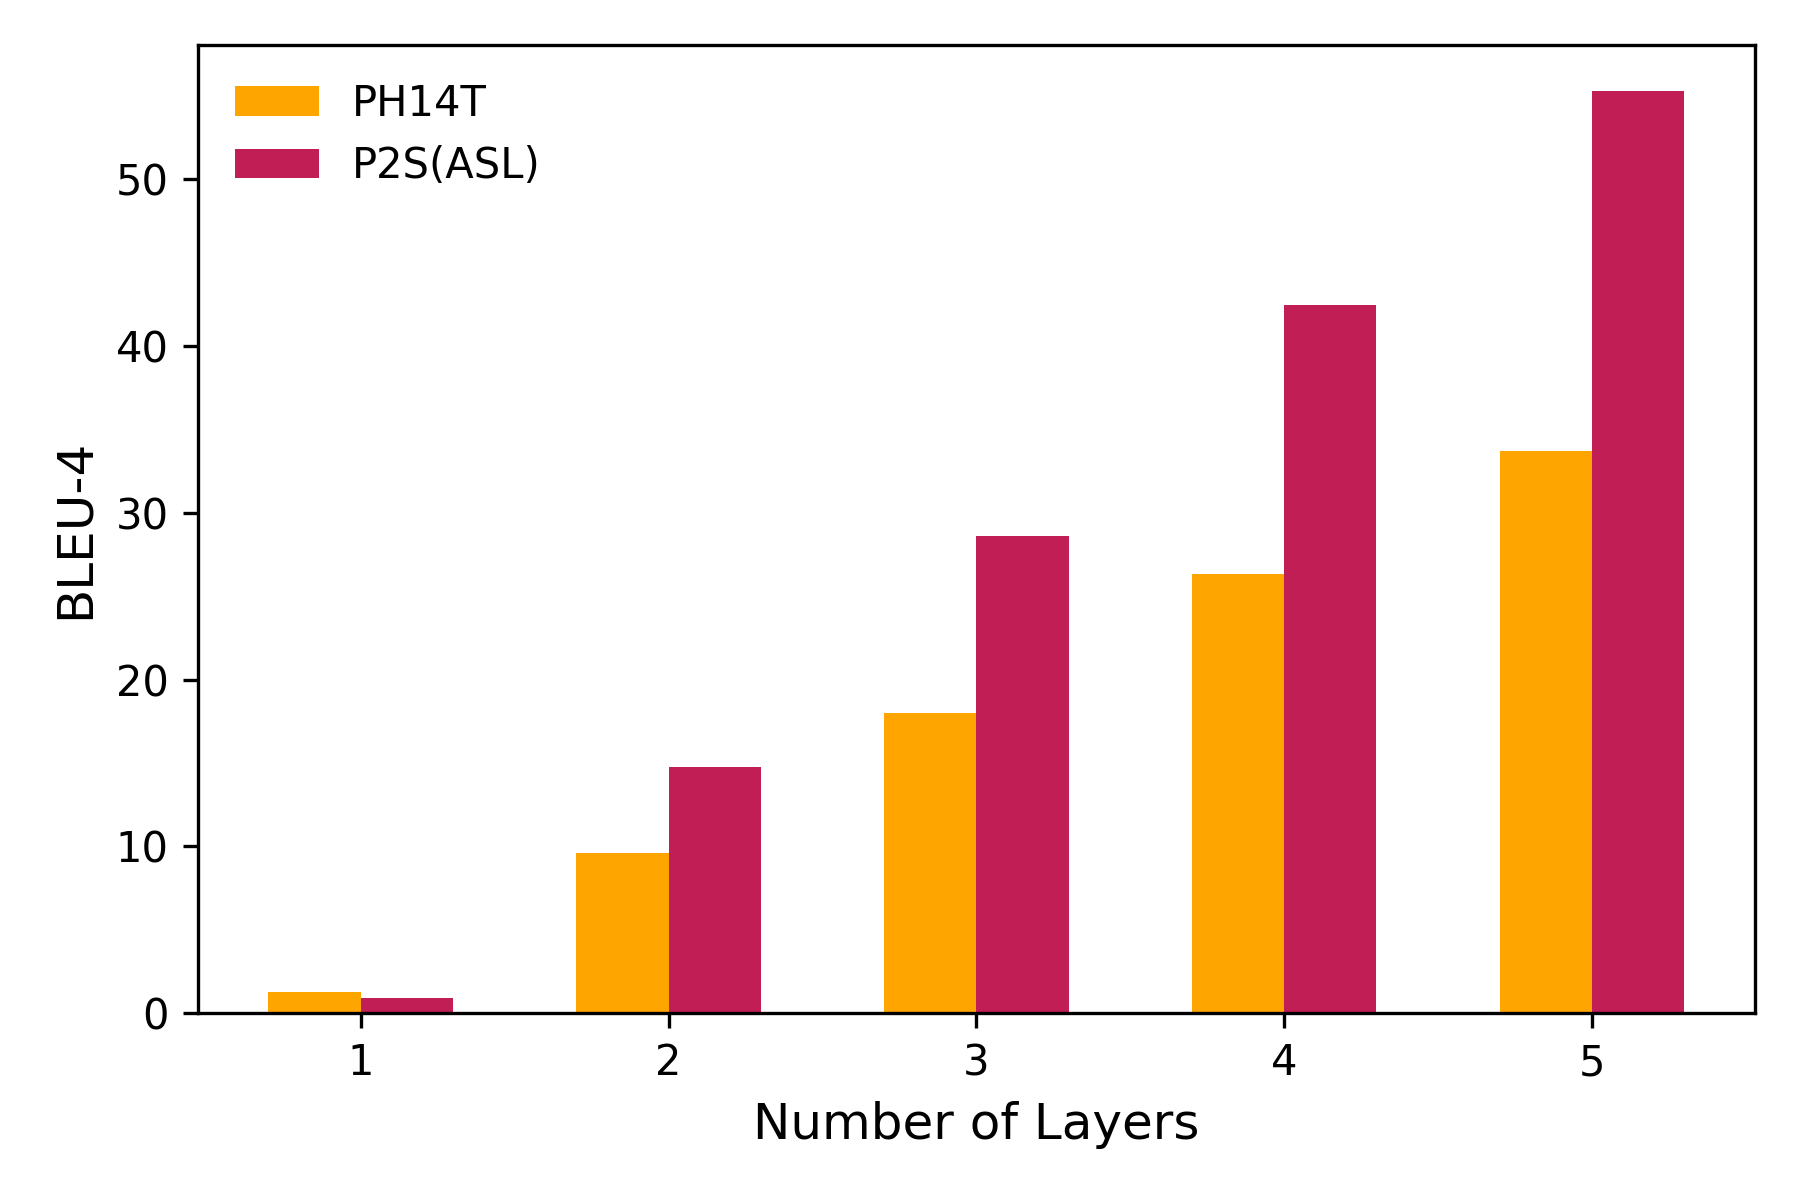
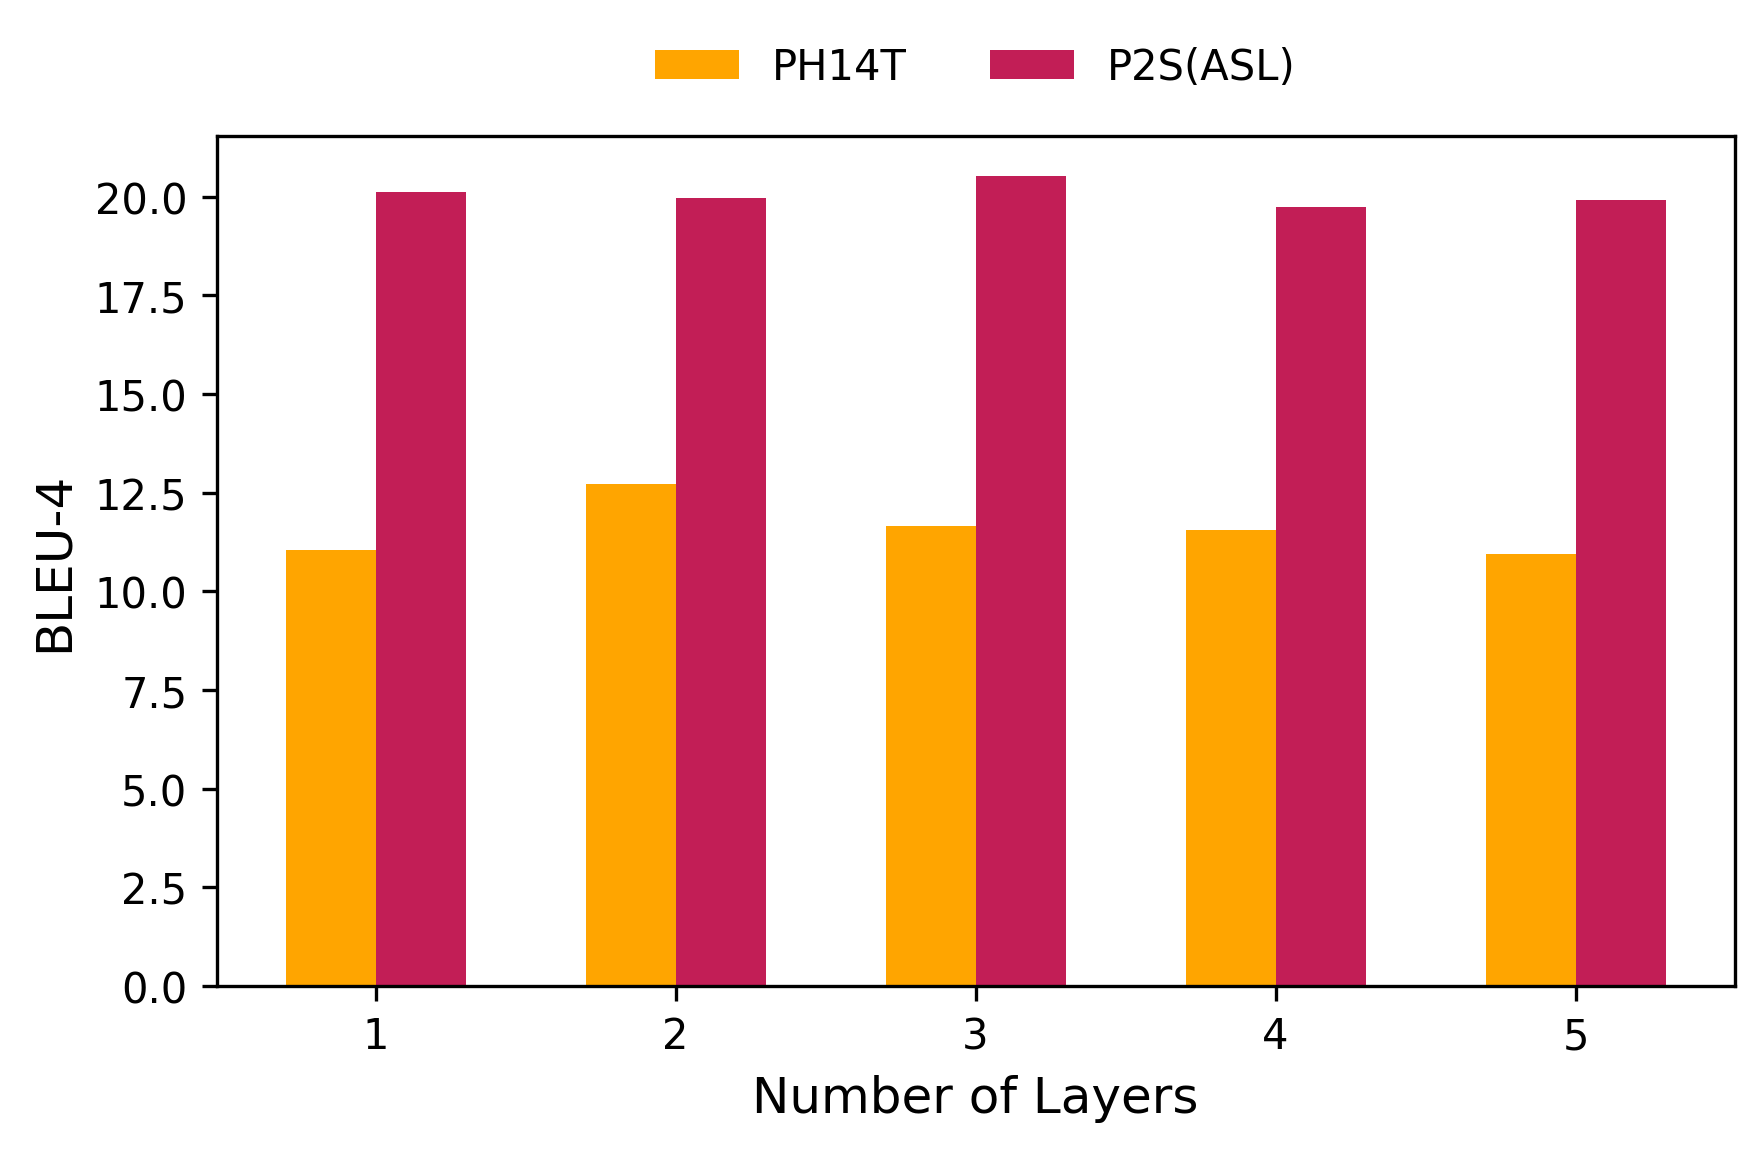
adjust log func

Changed region(s): [[0.0, 0.0312, 0.9977, 0.9688]]

diff --git a/plot/plot_nl.py b/plot/plot_nl.py
@@ -21,7 +21,7 @@ def plot_ll():
     y_how2sign = np.array([17.79, 20.35, 20.06, 20.8, 20.86, 21.46, 21.12, 21.18, 20.93, 21.23, 20.48])
 
     plt.plot(x, y_p14t, label='P14T')
-    plt.plot(x, y_how2sign, label='How2Sign')
+    plt.plot(x, y_how2sign, label='P2S(ASL)')
     plt.xlabel('lambda')
     plt.ylabel('BLEU-4')
     plt.legend()
@@ -34,11 +34,11 @@ def plot_ll():
     plt.close()
 
 
-def plot_nl():
+def plot_nl_pre():
     # 数据
     x = np.array([1, 2, 3, 4, 5])
-    y_p14t = np.array([1.26,9.61,17.97,26.32,33.68])
-    y_how2sign = np.array([0.89,14.73,28.58,42.43,55.28])
+    y_p14t = np.array([11.05, 12.73, 11.67, 11.56, 10.94])
+    y_how2sign = np.array([20.11, 19.97, 20.52, 19.74, 19.92])
 
     width = 0.3  # 柱状图宽度
 
@@ -63,6 +63,41 @@ def plot_nl():
     # 保存图像
     save_path = os.path.join(output_dir, "plot_nl.png")
     plt.savefig(save_path, dpi=300)
+    plt.show()
+    print(f"Saved {save_path}")
+    plt.close()
+
+def plot_nl():
+    # 数据
+    x = np.array([1, 2, 3, 4, 5])
+    y_p14t = np.array([11.05, 12.73, 11.67, 11.56, 10.94])
+    y_how2sign = np.array([20.11, 19.97, 20.52, 19.74, 19.92])
+
+    width = 0.3  # 柱状图宽度
+
+    # 适合科研论文的颜色（无边框）
+    color_p14t = '#FFA500'  # 橙色
+    color_how2sign = '#C21E56'  # 深红色
+
+    plt.figure(figsize=(6, 4))  # 控制图表大小
+    plt.bar(x - width / 2, y_p14t, width=width, label='PH14T', color=color_p14t)
+    plt.bar(x + width / 2, y_how2sign, width=width, label='P2S(ASL)', color=color_how2sign)
+
+    # 添加标签
+    plt.xlabel('Number of Layers', fontsize=12)
+    plt.ylabel('BLEU-4', fontsize=12)
+    plt.xticks(x, fontsize=10)
+    plt.yticks(fontsize=10)
+
+    # 图例放外侧上方
+    plt.legend(loc='upper center', bbox_to_anchor=(0.5, 1.15), fontsize=10, frameon=False, ncol=2)
+
+    # 调整边距
+    plt.tight_layout()
+
+    # 保存图像
+    save_path = os.path.join(output_dir, "plot_nl.png")
+    plt.savefig(save_path, dpi=300, bbox_inches='tight')  # bbox_inches 确保图例不会被裁剪
     plt.show()
     print(f"Saved {save_path}")
     plt.close()

diff --git a/plot/mae_three.py b/plot/mae_three.py
@@ -42,7 +42,7 @@ val_loss_values = [val + offset for val in val_loss_values]
 # 绘制曲线
 plt.figure(figsize=(12, 6))
 plt.plot(epochs, train_loss_values, marker='.', linestyle='-', color='orange', label='PH14T')
-plt.plot(epochs, val_loss_values, marker='.', linestyle='-', color='red', label='P2S(ASL)')
+plt.plot(epochs, val_loss_values, marker='.', linestyle='-', color='#C21E56', label='P2S(ASL)')
 
 plt.xlabel('Epoch')
 plt.ylabel('Emotional Similarity')

diff --git a/train_c.py b/train_c.py
@@ -139,7 +139,7 @@ def main(args_, config):
                                  drop_last=True)
 
     # SLP Model
-    slp_model = EmoGene(num_layers=args['num_layers'])
+    slp_model = EmoGene(num_heads=args['num_layers'])
     if args['finetune']:
         try:
             print("加载EmoGene预训练权重...")
